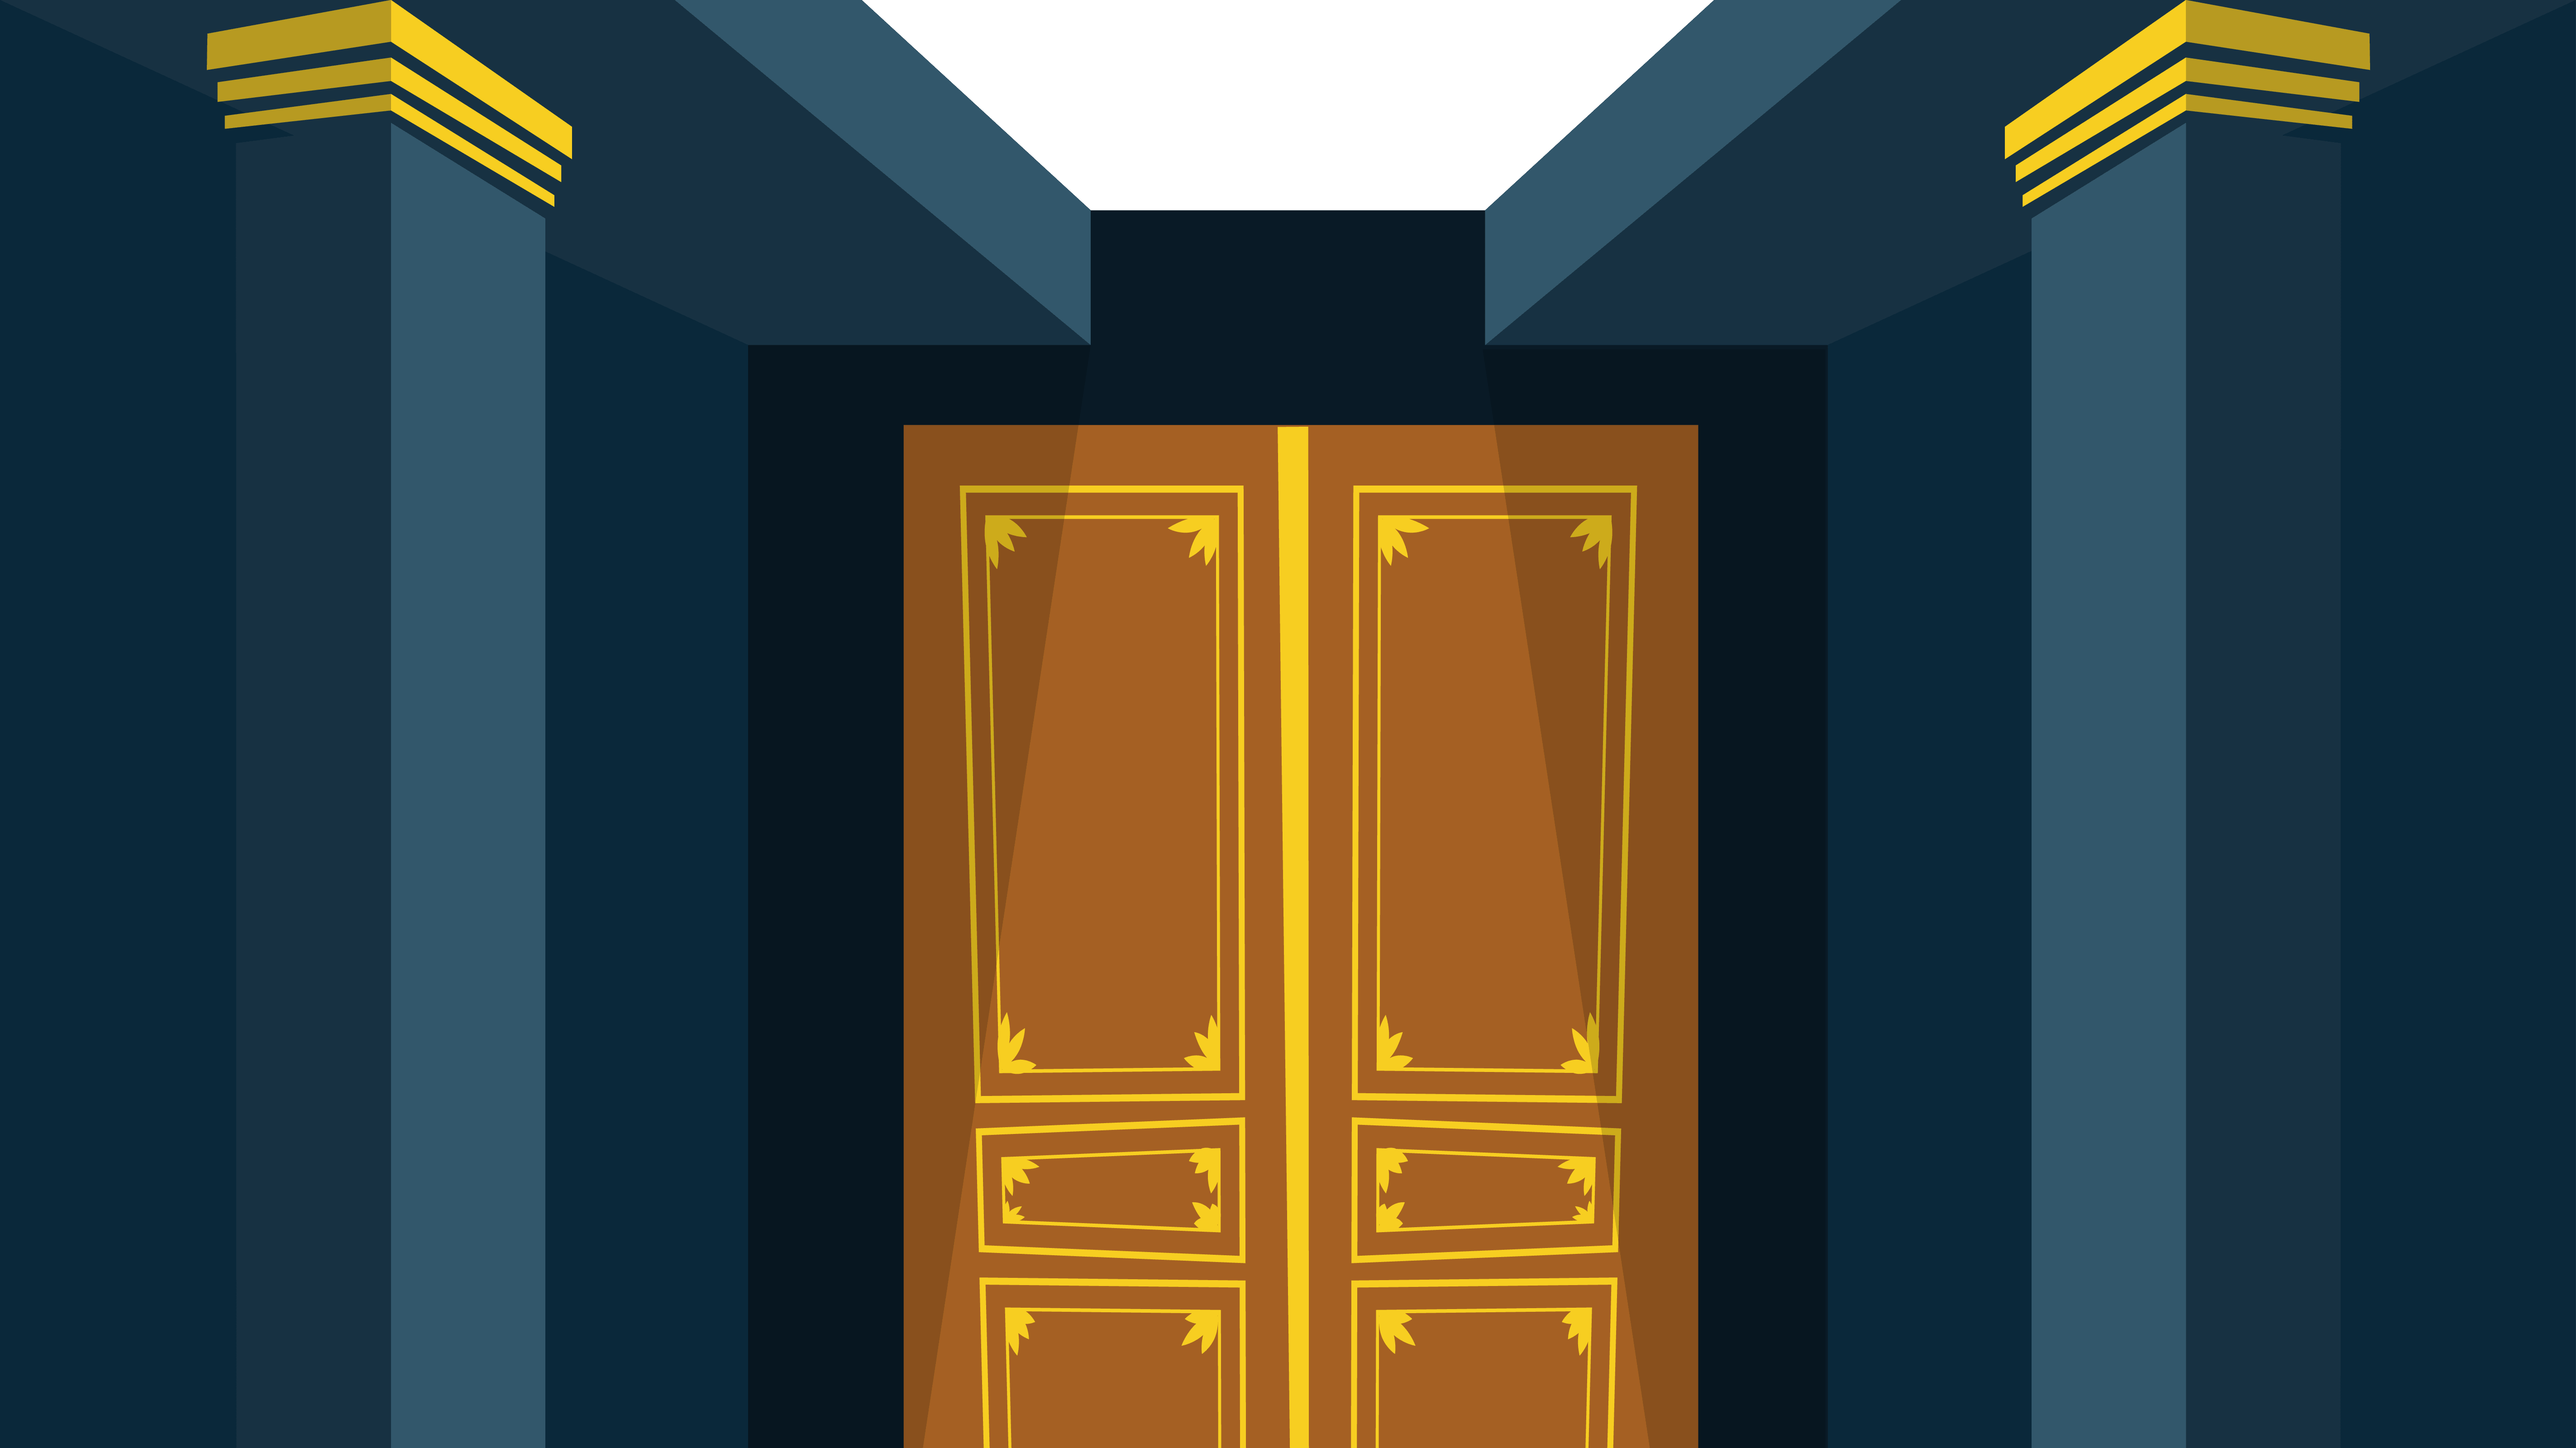
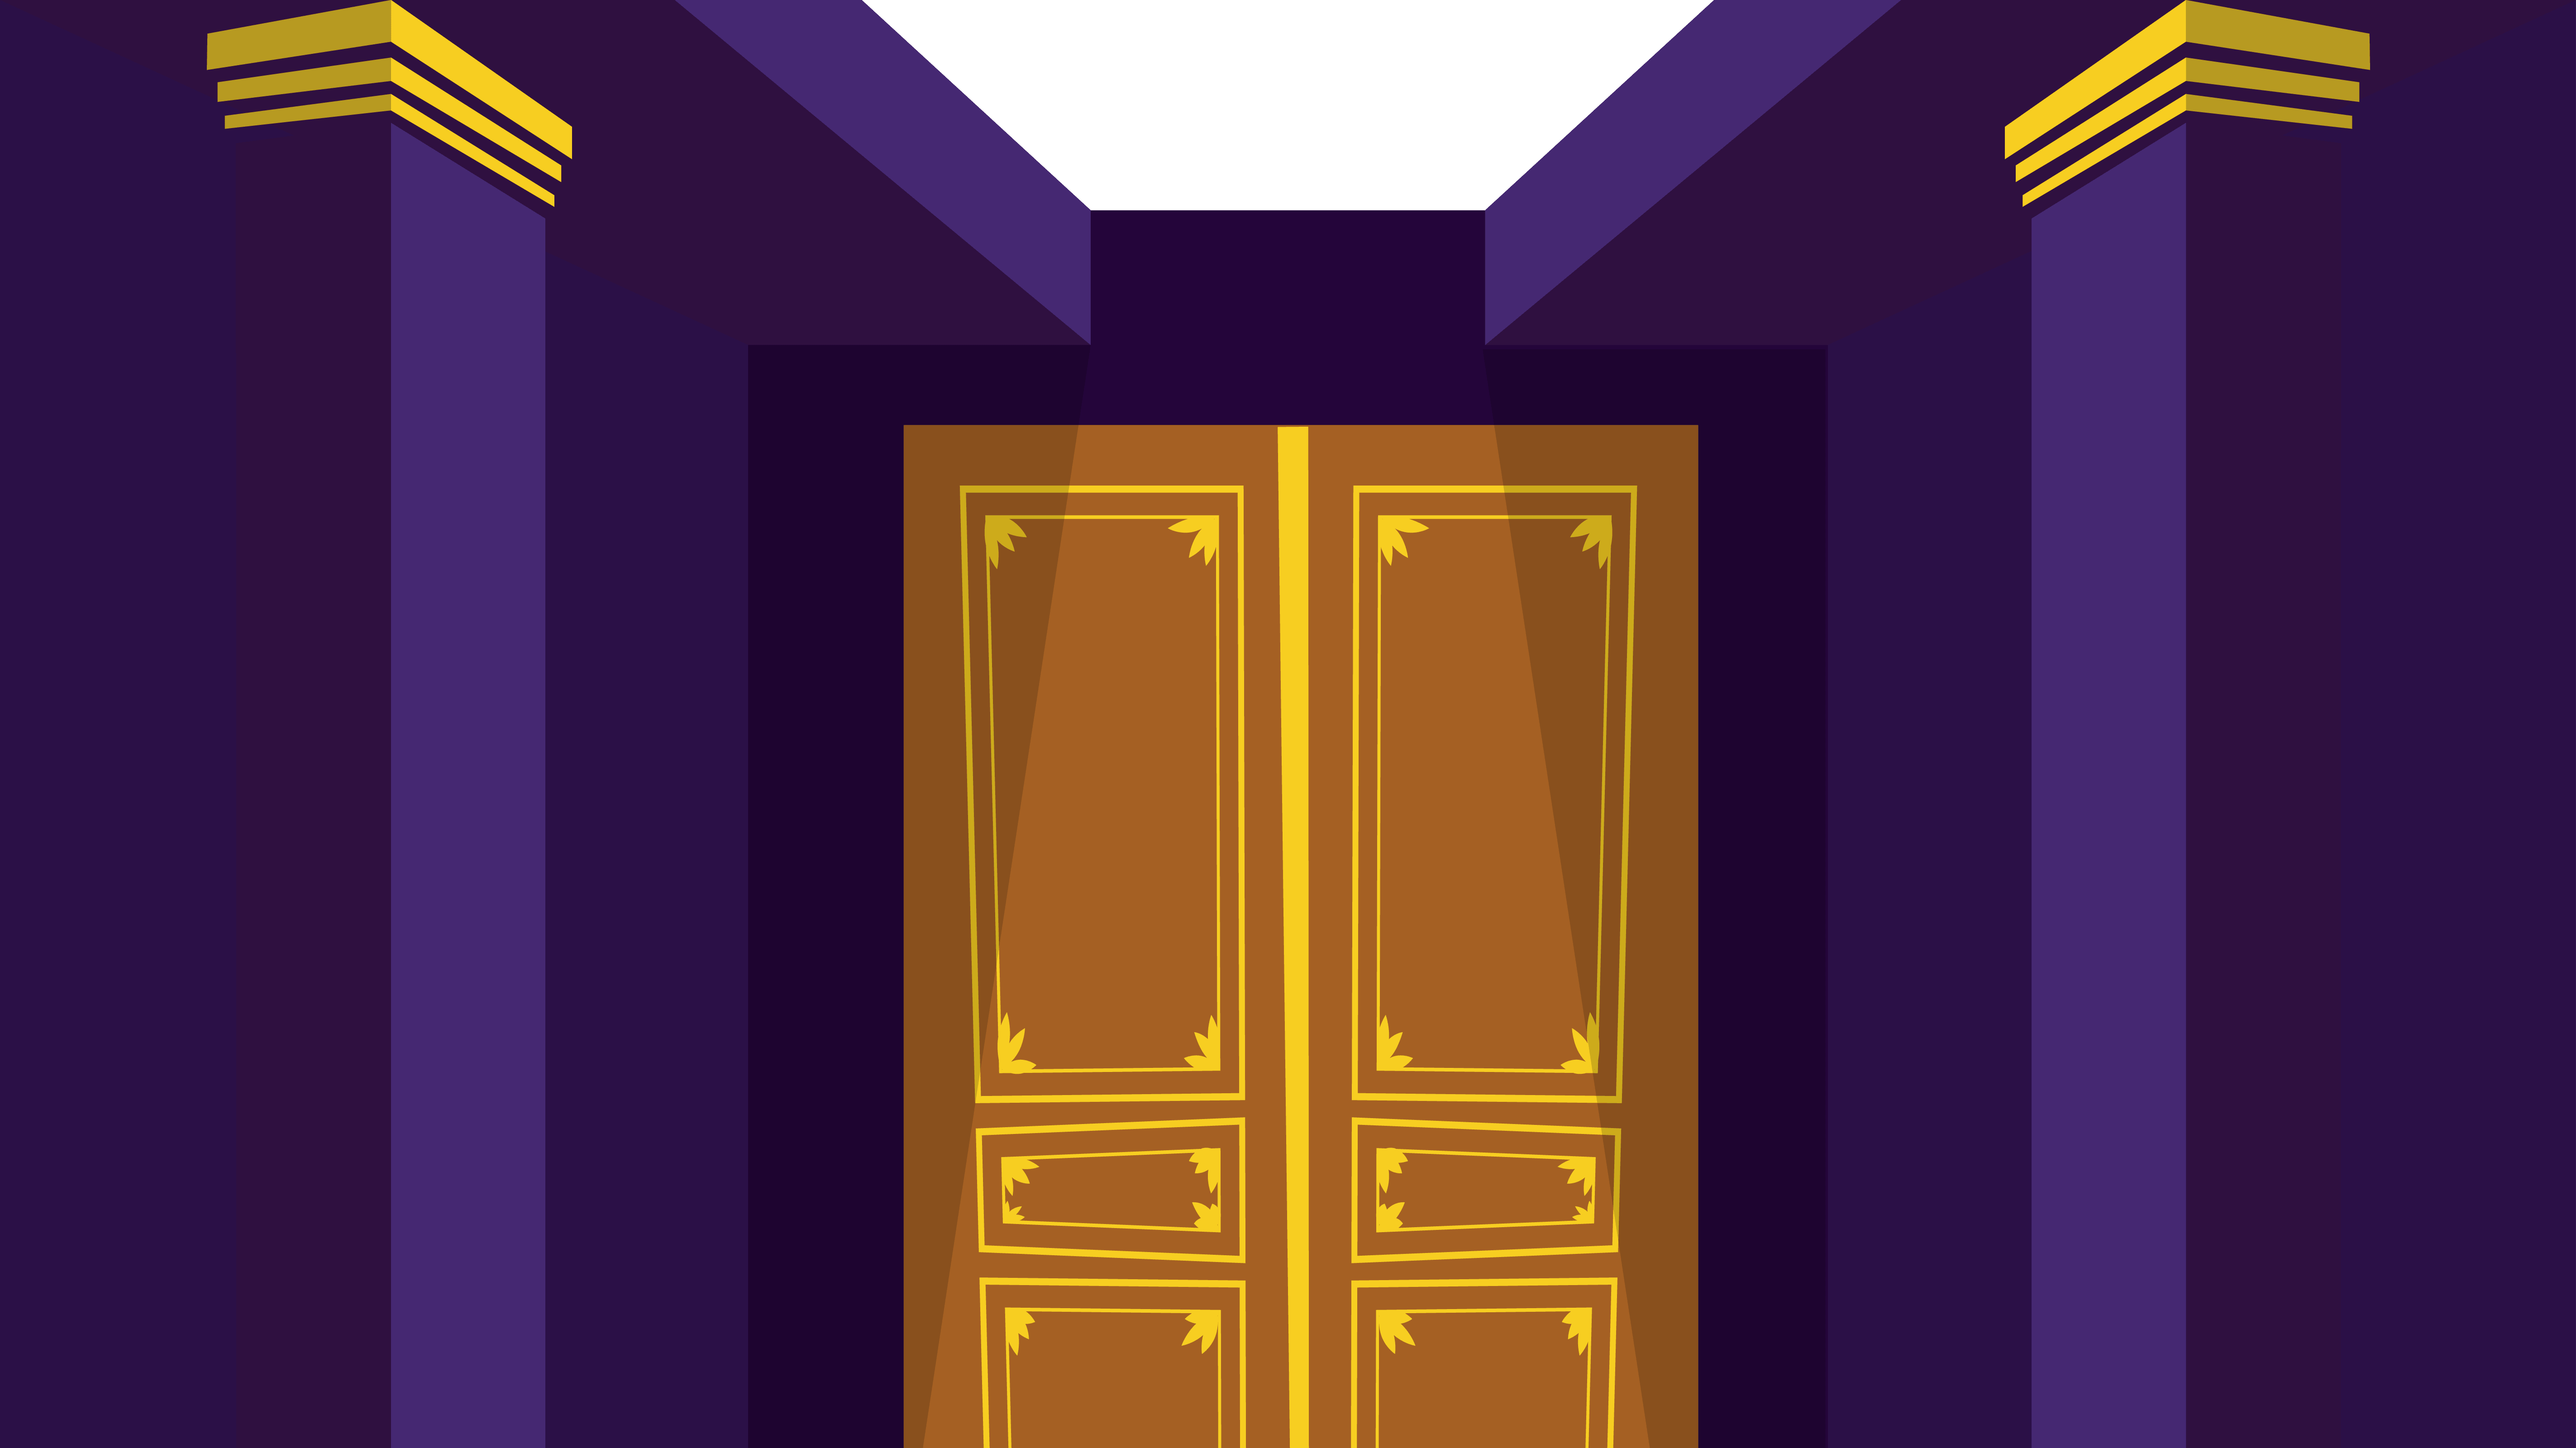
[feat] : Add landing page base

diff --git a/client/src/pages/Home/index.js b/client/src/pages/Home/index.js
@@ -1,58 +1,61 @@
 import React from 'react'
-import style from './style.module.css'
-// import { Button } from '@material-ui/core'
-// import { useStyles } from './styles'
-// import { useHistory } from 'react-router'
-import bgimg from '../../assets/images/bgImg.png'
-import loginPage from '../../assets/images/loginPage.png'
+import { Parallax, ParallaxLayer } from 'react-spring/addons'
+import bgimg from '../../assets/images/loginPage.png'
+import aaveg from '../../assets/images/aaveg.png'
+import pillar from '../../assets/images/bgImg.png'
 
-export const Home = () => {
-  React.useEffect(() => {
-    let scy = window.scrollY || 0
+const url = (name, wrap = false) => `${wrap ? 'url(' : ''}https://awv3node-homepage.surge.sh/build/assets/${name}.svg${wrap ? ')' : ''}`
 
-    document.getElementById('pic2').style.top = -scy + window.innerHeight + 'px'
-    document.getElementById('pic1').style.top = -window.scrollY + 'px'
+export class Home extends React.Component {
+  render () {
+    return (
+      <Parallax ref={ref => (this.parallax = ref)} pages={4.5}>
 
-    document.addEventListener('scroll', () => {
-      document.getElementById('pic1').style.top = -window.scrollY + 'px'
-      scy = window.scrollY
-      if (window.scrollY > window.innerHeight) {
-        scy = window.innerHeight
-      }
-      document.getElementById('pic2').style.top = -scy + window.innerHeight + 'px'
-    })
+        <ParallaxLayer offset={0} speed={0.5} style={{ opacity: 1 }}>
+          <img src={bgimg} alt='cloud' style={{ display: 'block', height: '100vh', width: '100%' }} />
+        </ParallaxLayer>
 
-    window.addEventListener('resize', () => {
-      document.getElementById('pic1').style.width = window.innerWidth + 'px'
-      document.getElementById('pic2').style.width = window.innerWidth + 'px'
-      document.getElementById('pic1').style.height = window.innerHeight + 'px'
-      document.getElementById('pic2').style.height = window.innerHeight + 'px'
-    })
+        <ParallaxLayer offset={1} speed={0.8} style={{ opacity: 0.1 }}>
+          <img src={url('cloud')} alt='cloud' style={{ display: 'block', width: '20%', marginLeft: '55%' }} />
+          <img src={url('cloud')} alt='cloud' style={{ display: 'block', width: '10%', marginLeft: '15%' }} />
+        </ParallaxLayer>
 
-    // document.getElementById('pic1').style.top = -window.scrollY + 'px'
-    document.getElementById('pic1').style.width = window.innerWidth + 'px'
-    document.getElementById('pic2').style.width = window.innerWidth + 'px'
-    document.getElementById('pic1').style.height = window.innerHeight + 'px'
-    document.getElementById('pic2').style.height = window.innerHeight + 'px'
-  }, [])
-  return (
-    <section className={style.section}>
-      <img src={loginPage} className={style.bgimg} id='pic1' alt='bgimg' />
-      <img src={bgimg} className={style.bgimg} id='pic2' alt='bgimg' />
-      <div className={style.div} id='content'>What is Lorem Ipsum?
-        Lorem Ipsum is simply dummy text of the printing and typesetting industry. Lorem Ipsum has been the industry's standard dummy text ever since the 1500s, when an unknown printer took a galley of type and scrambled it to make a type specimen book. It has survived not only five centuries, but also the leap into electronic typesetting, remaining essentially unchanged. It was popularised in the 1960s with the release of Letraset sheets containing Lorem Ipsum passages, and more recently with desktop publishing software like Aldus PageMaker including versions of Lorem Ipsum.
+        <ParallaxLayer offset={1.75} speed={0.5} style={{ opacity: 0.1 }}>
+          <img src={url('cloud')} alt='cloud' style={{ display: 'block', width: '20%', marginLeft: '70%' }} />
+          <img src={url('cloud')} alt='cloud' style={{ display: 'block', width: '20%', marginLeft: '40%' }} />
+        </ParallaxLayer>
 
-        Why do we use it?
-        It is a long established fact that a reader will be distracted by the readable content of a page when looking at its layout. The point of using Lorem Ipsum is that it has a more-or-less normal distribution of letters, as opposed to using 'Content here, content here', making it look like readable English. Many desktop publishing packages and web page editors now use Lorem Ipsum as their default model text, and a search for 'lorem ipsum' will uncover many web sites still in their infancy. Various versions have evolved over the years, sometimes by accident, sometimes on purpose (injected humour and the like).
+        <ParallaxLayer offset={1} speed={0.2} style={{ opacity: 0.2 }}>
+          <img src={url('cloud')} alt='cloud' style={{ display: 'block', width: '10%', marginLeft: '10%' }} />
+          <img src={url('cloud')} alt='cloud' style={{ display: 'block', width: '20%', marginLeft: '75%' }} />
+        </ParallaxLayer>
 
-        Where does it come from?
-        Contrary to popular belief, Lorem Ipsum is not simply random text. It has roots in a piece of classical Latin literature from 45 BC, making it over 2000 years old. Richard McClintock, a Latin professor at Hampden-Sydney College in Virginia, looked up one of the more obscure Latin words, consectetur, from a Lorem Ipsum passage, and going through the cites of the word in classical literature, discovered the undoubtable source. Lorem Ipsum comes from sections 1.10.32 and 1.10.33 of "de Finibus Bonorum et Malorum" (The Extremes of Good and Evil) by Cicero, written in 45 BC. This book is a treatise on the theory of ethics, very popular during the Renaissance. The first line of Lorem Ipsum, "Lorem ipsum dolor sit amet..", comes from a line in section 1.10.32.
+        <ParallaxLayer offset={1.6} speed={-0.1} style={{ opacity: 0.4 }}>
+          <img src={url('cloud')} alt='cloud' style={{ display: 'block', width: '20%', marginLeft: '60%' }} />
+          <img src={url('cloud')} alt='cloud' style={{ display: 'block', width: '5%', marginLeft: '2%' }} />
+          <img src={url('cloud')} alt='cloud' style={{ display: 'block', width: '10%', marginLeft: '20%' }} />
+        </ParallaxLayer>
 
-        The standard chunk of Lorem Ipsum used since the 1500s is reproduced below for those interested. Sections 1.10.32 and 1.10.33 from "de Finibus Bonorum et Malorum" by Cicero are also reproduced in their exact original form, accompanied by English versions from the 1914 translation by H. Rackham.
+        <ParallaxLayer offset={2} speed={0.4} style={{ opacity: 0.6 }}>
+          <img src={url('cloud')} alt='cloud' style={{ display: 'block', width: '20%', marginLeft: '85%' }} />
+          <img src={url('cloud')} alt='cloud' style={{ display: 'block', width: '15%', marginLeft: '10%' }} />
+        </ParallaxLayer>
 
-        Where can I get some?
-        There are many variations of passages of Lorem Ipsum available, but the majority have suffered alteration in some form, by injected humour, or randomised words which don't look even slightly believable. If you are going to use a passage of Lorem Ipsum, you need to be sure there isn't anything embarrassing hidden in the middle of text. All the Lorem Ipsum generators on the Internet tend to repeat predefined chunks
-      </div>
-    </section>
-  )
+        <ParallaxLayer offset={0.99} speed={0.1} style={{ opacity: 1 }}>
+          <img src={pillar} alt='pillar' style={{ display: 'block', height: '400vh', width: '100%' }} />
+        </ParallaxLayer>
+
+        <ParallaxLayer offset={0.1} speed={-0.1} style={{ pointerEvents: 'none' }}>
+          <img src={aaveg} alt='aaveg' style={{ width: '25%', marginLeft: '2%' }} />
+        </ParallaxLayer>
+
+        <ParallaxLayer offset={0.6} speed={-0.5} style={{ pointerEvents: 'none' }}>
+          <img src={url('satellite4')} alt='satellite' style={{ width: '15%', marginLeft: '80%' }} />
+        </ParallaxLayer>
+
+        <ParallaxLayer offset={3} speed={0.5} style={{ pointerEvents: 'none' }} />
+
+      </Parallax>
+    )
+  }
 }

diff --git a/client/src/index.css b/client/src/index.css
@@ -2,11 +2,11 @@ body {
   margin: 0;
   padding: 0;
   border: 0;
-  background: darkgrey;
+  background: #2f1040;
   -webkit-animation: fadein 3s;
   -moz-animation: fadein 3s;
   animation: fadein 3s;
-  overflow-x: hidden;
+  overflow: hidden;
 }
 ::-webkit-scrollbar {
   width: 3.9px;
